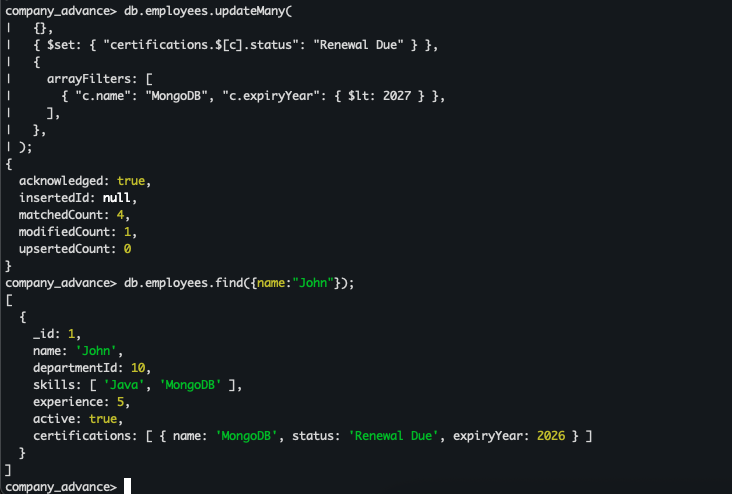
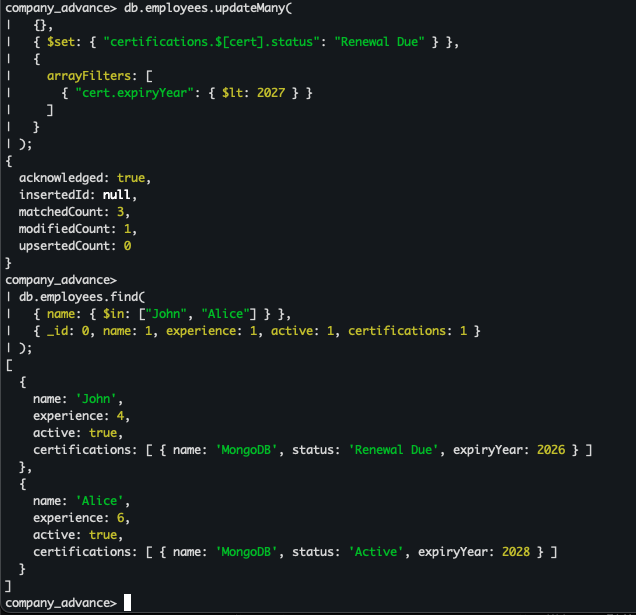
Fix Task 2 verification, JS file scope, explain output and TTL note

diff --git a/mongodb-advanced-assignment.js b/mongodb-advanced-assignment.js
@@ -218,7 +218,7 @@ company_advance> db.employees
     planCacheShapeHash: 'E5A42DED',
     planCacheKey: 'D43CA850',
     optimizationTimeMillis: 0,
-    optimizationTimeMicros: 273,
+    optimizationTimeMicros: 288,
     maxIndexedOrSolutionsReached: false,
     maxIndexedAndSolutionsReached: false,
     maxScansToExplodeReached: false,
@@ -247,8 +247,8 @@ company_advance> db.employees
   executionStats: {
     executionSuccess: true,
     nReturned: 2,
-    executionTimeMillis: 1,
-    executionTimeMicros: 1195,
+    executionTimeMillis: 0,
+    executionTimeMicros: 477,
     totalKeysExamined: 2,
     totalDocsExamined: 2,
     executionStages: {
@@ -336,9 +336,3 @@ db.sessions.createIndex(
 
 db.sessions.getIndexes();
 db.sessions.find();
-
-// Task 6: Backup and Restore
-// Verify the restored employee, department, and session collection counts.
-db.employees.countDocuments({})
-db.departments.countDocuments({})
-db.sessions.countDocuments({})
